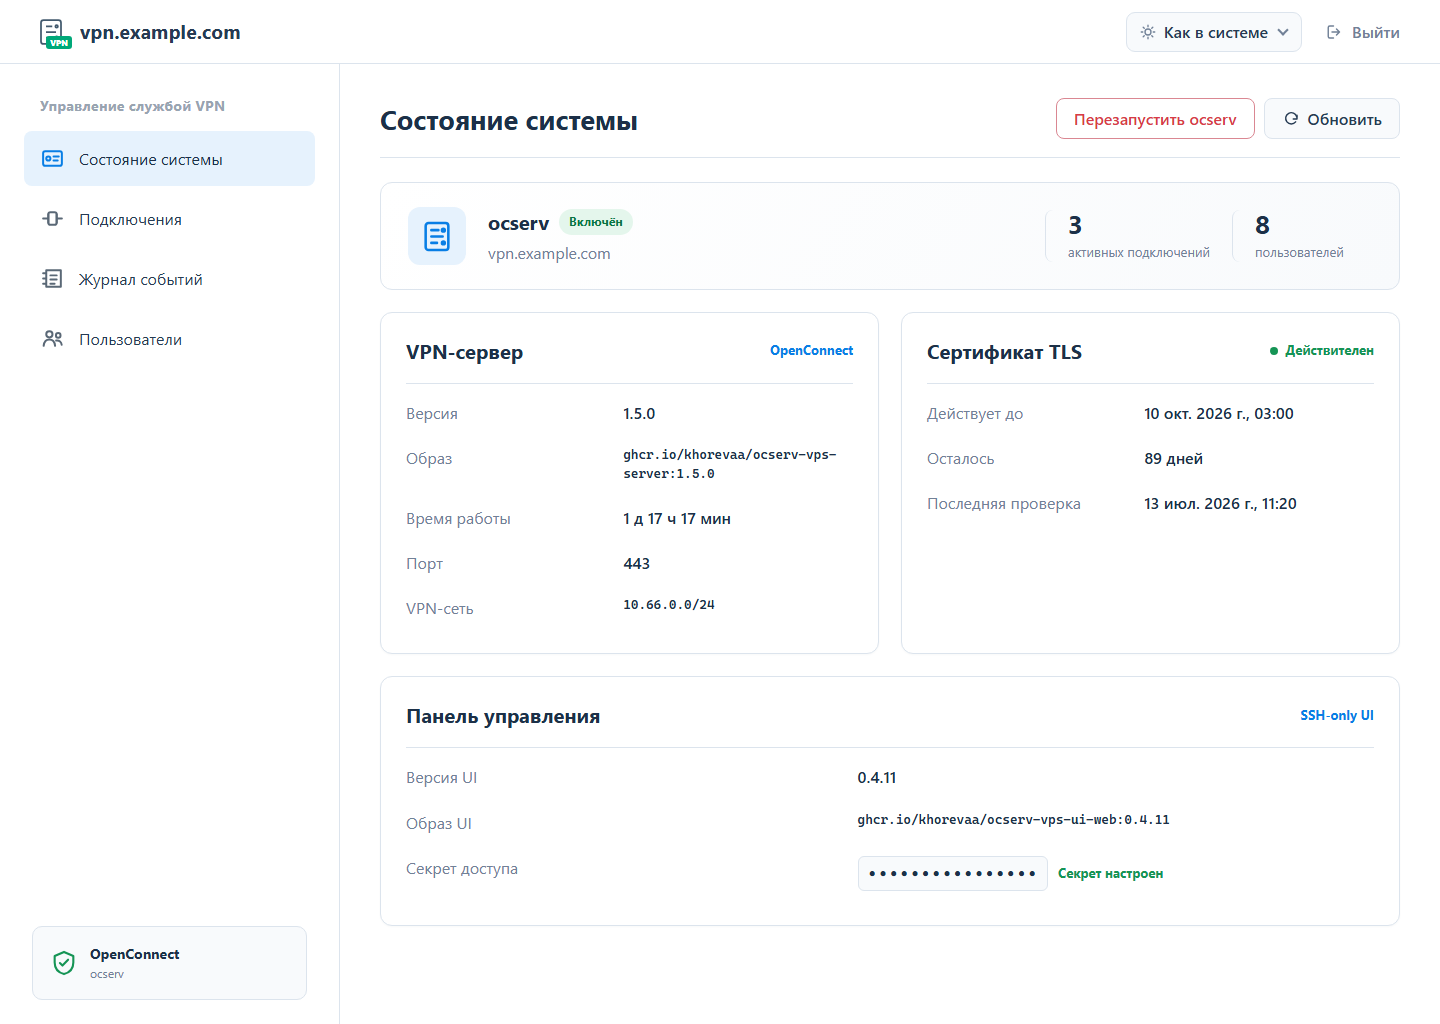
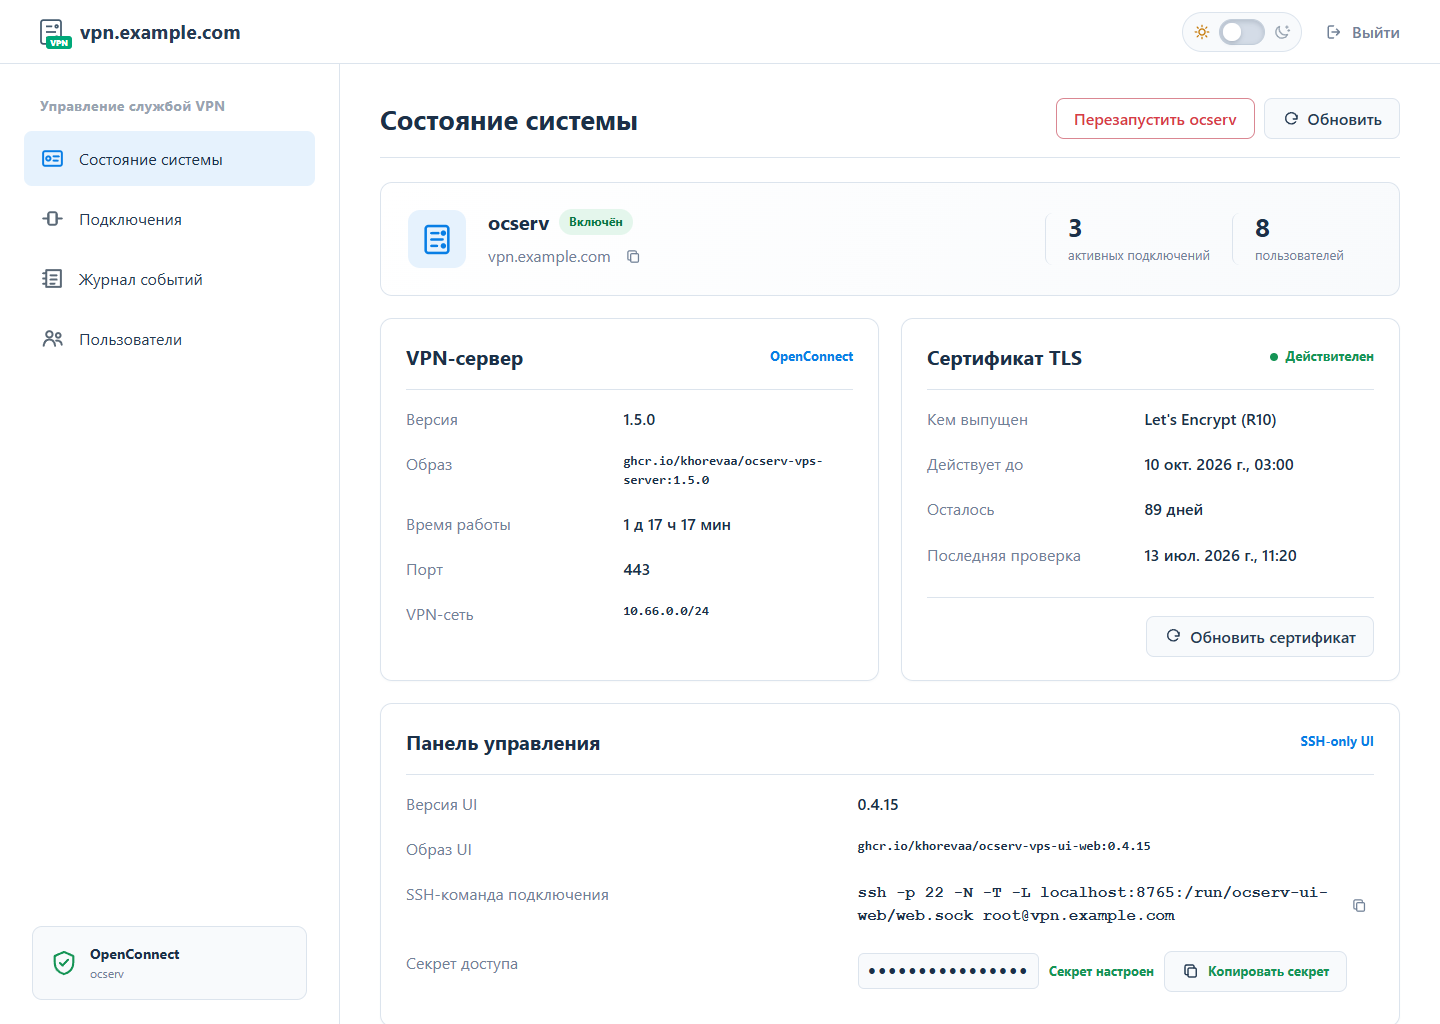
Update README screenshots

diff --git a/README.md b/README.md
@@ -4,7 +4,7 @@
 
 Готовый VPN-сервер на базе [ocserv](https://www.infradead.org/ocserv/) для собственного VPS: установка одной командой, управление пользователями и закрытая веб-панель.
 
-![Панель управления ocserv-vps](docs/images/ui-overview.png)
+![Состояние системы в панели ocserv-vps](docs/images/ui-overview.png)
 
 ## Возможности
 
@@ -89,6 +89,18 @@ bash <(curl -Ls https://raw.githubusercontent.com/khorevaa/ocserv-vps/develop/in
 ### Защищённый вход
 
 ![Вход в панель через секрет доступа](docs/images/ui-access.png)
+
+### Состояние системы
+
+![Состояние VPN-сервера, сертификата и панели управления](docs/images/ui-overview.png)
+
+### Активные подключения
+
+![Активные подключения к VPN](docs/images/ui-connections.png)
+
+### Журнал событий
+
+![Журнал подключений и отключений VPN](docs/images/ui-journal.png)
 
 ### Управление пользователями
 

diff --git a/README_EN.md b/README_EN.md
@@ -4,7 +4,7 @@
 
 A ready-to-run [ocserv](https://www.infradead.org/ocserv/) VPN server for your own VPS, with one-command installation, user management, and a private web panel.
 
-![ocserv-vps management panel](docs/images/ui-overview.png)
+![System status in the ocserv-vps management panel](docs/images/ui-overview.png)
 
 ## Features
 
@@ -89,6 +89,18 @@ The status page can copy the VPN domain, the ready-to-use SSH command for the pr
 ### Protected access
 
 ![Accessing the panel with an access secret](docs/images/ui-access.png)
+
+### System status
+
+![VPN server, certificate, and management panel status](docs/images/ui-overview.png)
+
+### Active connections
+
+![Active VPN connections](docs/images/ui-connections.png)
+
+### Event journal
+
+![VPN connection and disconnection journal](docs/images/ui-journal.png)
 
 ### User management
 
